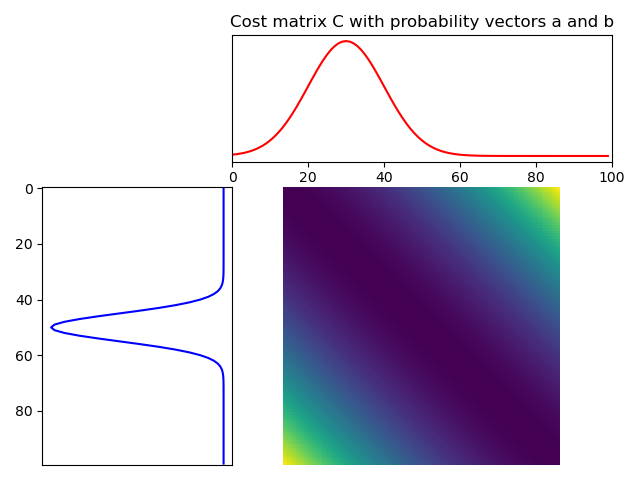
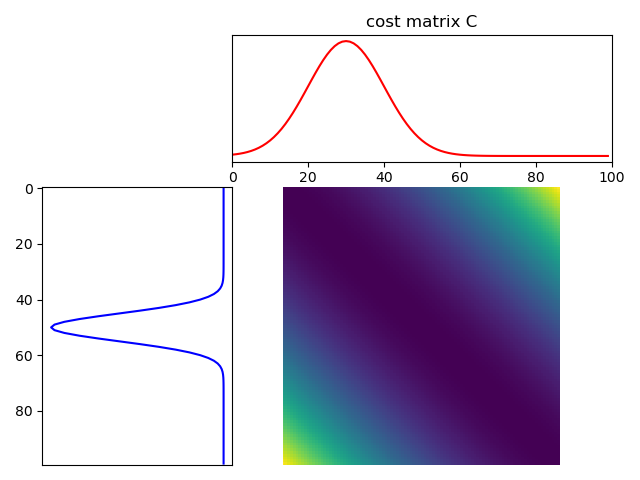
increased iteration

Changed region(s): [[0.3438, 0.0312, 0.9688, 0.0625]]

diff --git a/SinkhornEOT.py b/SinkhornEOT.py
@@ -10,7 +10,7 @@ from tqdm import tqdm
 # Sinkhorn parameters
 n = 100 # probability vectors in \R^n
 epsilon = 0.001 # regularization parameter
-iters = 10000 # number of iterations
+iters = 1000000 # number of iterations
 
 # Initializing marginal probability vectors
 a = gauss(n, 50, 5)
@@ -30,6 +30,10 @@ K = np.exp(-C/epsilon)
 u_bar = np.ones(n) # e^{u_i} = 1 for all i
 v_bar = np.ones(n) # e^{v_j} = 1 for all j
 
+# visualization
+ot.plot.plot1D_mat(a,b,C,'cost matrix C')
+plt.savefig('cost_matrix.png')
+
 # iterations
 for i in tqdm(range(iters)):
     u_bar = a / np.dot(K, v_bar)
@@ -40,7 +44,5 @@ print("iteration is complete")
 P = np.matmul(np.matmul(np.diag(u_bar),K), np.diag(v_bar))
 
 # Visualization
-ot.plot.plot1D_mat(a,b,C,'Cost matrix C with probability vectors a and b')
-plt.savefig('cost_matrix.png')
 ot.plot.plot1D_mat(a,b,P,'Optimal Transport Plan P with probability vectors a and b')
 plt.savefig('eot_result.png')
